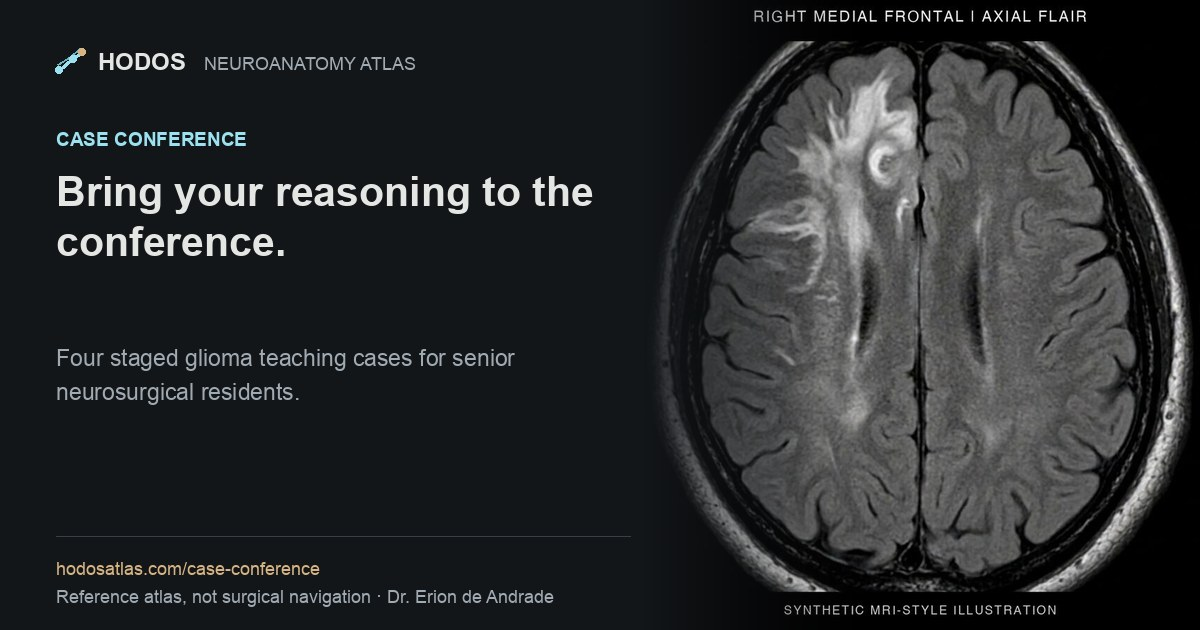
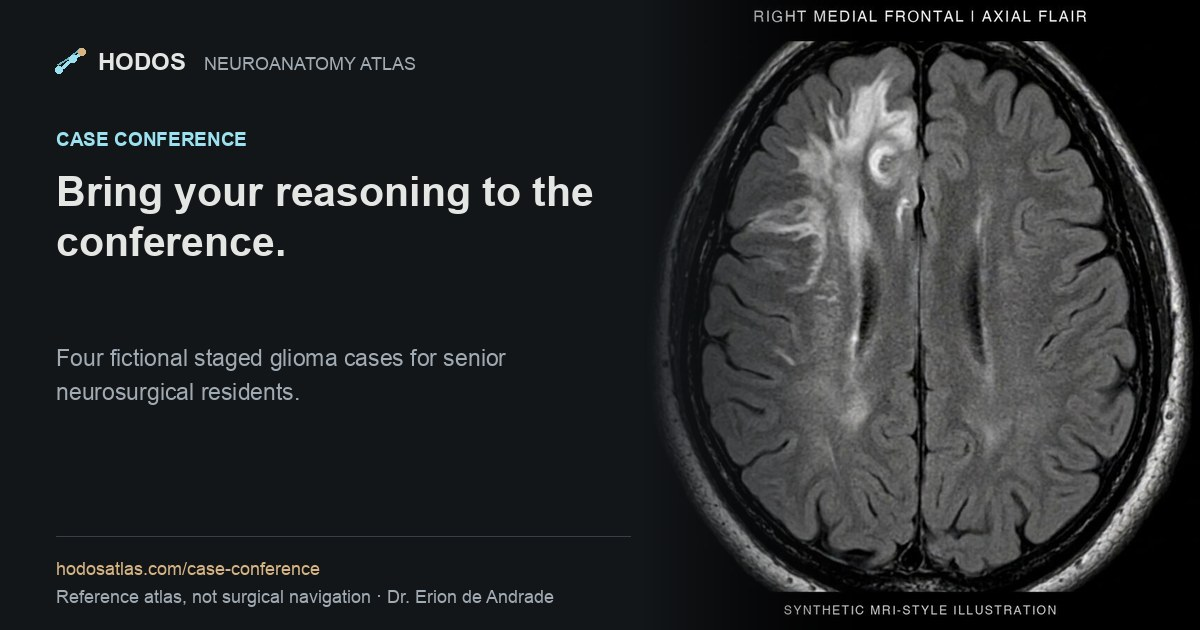
fix: address PR #41 review P2s and SwiftShader screenshot stability in CI

Changed region(s): [[0.0925, 0.5429, 0.4317, 0.6032]]

diff --git a/viewer/lesson_content.js b/viewer/lesson_content.js
@@ -38,6 +38,13 @@ export function lessonStatusNotice(lesson){
   throw new Error(`Unknown reviewStatus: ${lesson.reviewStatus}`);
 }
 
+export function curriculumStatusNotice(lessons,draftNoticeText='Lesson text is an educational draft awaiting anatomical review.'){
+  const draftCount=lessons.filter(l=>l.reviewStatus==='draft').length;
+  if(draftCount===lessons.length)return draftNoticeText;
+  if(draftCount===0)return 'All lessons have been reviewed. Group anatomy reference only, not for surgical navigation.';
+  return `${lessons.length-draftCount} of ${lessons.length} lessons reviewed; ${draftCount} remain educational drafts awaiting anatomical review.`;
+}
+
 export const SOURCES=Object.freeze({...REFERENCE_SOURCES,...RESIDENT_SOURCES,...CORPUS_CALLOSUM_SOURCES,...INTERNAL_CAPSULE_SOURCES,...VENTRAL_SOURCES,...BRAINSTEM_SOURCES,...NETWORK_SOURCES,...W3_limen.SOURCES,...W3_insularFloor.SOURCES,...W3_medialSystem.SOURCES,...W3_motorBeyondM1.SOURCES,...W3_controlNetwork.SOURCES,...W3_readingRoute.SOURCES});
 // Wave-3 modules carry their own region cards; ids must not collide with the base set.
 export const REGIONS=Object.freeze({...BASE_REGIONS,...W3_limen.REGIONS,...W3_insularFloor.REGIONS,...W3_medialSystem.REGIONS,...W3_motorBeyondM1.REGIONS,...W3_controlNetwork.REGIONS,...W3_readingRoute.REGIONS});
@@ -116,6 +123,13 @@ function validateScene(scene,lessonId){
   }
 }
 
+function isIsoDate(value){
+  if(typeof value!=='string'||!/^\d{4}-\d{2}-\d{2}$/.test(value))return false;
+  const [y,m,d]=value.split('-').map(Number);
+  const dt=new Date(Date.UTC(y,m-1,d));
+  return dt.getUTCFullYear()===y&&dt.getUTCMonth()===m-1&&dt.getUTCDate()===d;
+}
+
 export function validateLessons(lessons=LESSONS,{sources=SOURCES,regions=REGIONS}={}){
   const ids=new Set(),usedSources=new Set(),usedRegions=new Set(),papers=new Set();
   for(const [id,s] of Object.entries(sources)){
@@ -136,7 +150,9 @@ export function validateLessons(lessons=LESSONS,{sources=SOURCES,regions=REGIONS
   }
   for(const l of lessons){
     if(ids.has(l.id)||!l.version||!REVIEW_STATUSES.includes(l.reviewStatus)||!l.steps.length)throw new Error('Invalid lesson identity or review state');
-    if(l.reviewStatus!=='draft'&&!(typeof l.reviewedAt==='string'&&/^\d{4}-\d{2}-\d{2}$/.test(l.reviewedAt)))throw new Error(`Reviewed lesson ${l.id} requires ISO reviewedAt date`);
+    if(l.reviewStatus==='draft'&&(l.reviewedAt!=null||l.reviewedBy!=null))throw new Error(`Draft lesson ${l.id} must not carry review metadata`);
+    if(l.reviewStatus!=='draft'&&!isIsoDate(l.reviewedAt))throw new Error(`Reviewed lesson ${l.id} requires valid ISO reviewedAt date`);
+    if(l.reviewStatus==='author-reviewed'&&l.reviewedBy!=null)throw new Error(`Author-reviewed lesson ${l.id} must not set reviewedBy`);
     if(l.reviewStatus==='peer-reviewed'&&!(typeof l.reviewedBy==='string'&&l.reviewedBy.trim()))throw new Error(`Peer-reviewed lesson ${l.id} requires reviewedBy`);
     ids.add(l.id);
     for(const s of l.steps){

diff --git a/tests/js/lesson_state.test.js b/tests/js/lesson_state.test.js
@@ -92,7 +92,22 @@ test('reviewStatus graduation supports author-reviewed and peer-reviewed while r
 
   const missingDate=structuredClone(LESSONS);
   missingDate[0].reviewStatus='author-reviewed';
-  assert.throws(()=>validateLessons(missingDate),/requires ISO reviewedAt/);
+  assert.throws(()=>validateLessons(missingDate),/requires valid ISO reviewedAt/);
+
+  const badCalendarDate=structuredClone(LESSONS);
+  badCalendarDate[0].reviewStatus='author-reviewed';
+  badCalendarDate[0].reviewedAt='2026-02-30';
+  assert.throws(()=>validateLessons(badCalendarDate),/requires valid ISO reviewedAt/);
+
+  const draftWithDate=structuredClone(LESSONS);
+  draftWithDate[0].reviewedAt='2026-11-24';
+  assert.throws(()=>validateLessons(draftWithDate),/must not carry review metadata/);
+
+  const authorWithReviewer=structuredClone(LESSONS);
+  authorWithReviewer[0].reviewStatus='author-reviewed';
+  authorWithReviewer[0].reviewedAt='2026-11-24';
+  authorWithReviewer[0].reviewedBy='Someone Else';
+  assert.throws(()=>validateLessons(authorWithReviewer),/must not set reviewedBy/);
 
   const missingReviewer=structuredClone(LESSONS);
   missingReviewer[0].reviewStatus='peer-reviewed';

diff --git a/tests/js/hodos_export.test.js b/tests/js/hodos_export.test.js
@@ -147,7 +147,7 @@ test('Hodos publishes a complete atlas with working public navigation and attrib
   const allBundledJS=[atlasBundle,...await Promise.all(chunkFiles.map(f=>readFile(path.join(out,f.path),'utf8')))].join('\n');
   assert(allBundledJS.includes('#E0605A'),'the /atlas bundle closure carries the Direction colour table');
   assert.match(headers,/\/chunks\/\*\n  ! Cache-Control\n  Cache-Control: public, max-age=31536000, immutable/);
-  assert.match(headers,/\/case-images\/\*\n  ! Cache-Control\n  Cache-Control: public, max-age=2592000/);
+  assert.match(headers,/\/case-images\/\*\n  ! Cache-Control\n  Cache-Control: public, max-age=14400, must-revalidate/);
   assert.doesNotMatch(await readFile(path.join(out,'scene_materials.js'),'utf8'),/configTube|tube-evidence/,'the unused tube-evidence material code is gone');
   assert.equal(receipt.files.filter(f=>/^reference-plates\/.*\.webp$/.test(f.path)).length,5);
   assert(!receipt.files.some(f=>/^(data\.json|app\.js|cases\/|api\/|handoff\/|\.env)/.test(f.path)));

diff --git a/viewer/case-conference.html b/viewer/case-conference.html
@@ -12,7 +12,7 @@
 <meta property="og:image" content="https://hodosatlas.com/brand/og/case-conference.jpg">
 <meta property="og:image:width" content="1200">
 <meta property="og:image:height" content="630">
-<meta property="og:image:alt" content="Hodos Case Conference — four staged glioma teaching cases for neurosurgical residents.">
+<meta property="og:image:alt" content="Hodos Case Conference — four fictional staged glioma teaching cases for neurosurgical residents.">
 <meta name="twitter:card" content="summary_large_image">
 <meta name="twitter:title" content="Hodos · Case Conference">
 <meta name="twitter:description" content="Four fictional glioma teaching cases for senior neurosurgical residents.">

diff --git a/viewer/atlas_scene.js b/viewer/atlas_scene.js
@@ -71,7 +71,7 @@ export async function createAtlasScene(mount,{onPick=()=>{},onHover=()=>{},onSta
   const reduced=matchMedia('(prefers-reduced-motion: reduce)');
   const scene=new THREE.Scene();
   const renderer=new THREE.WebGLRenderer({antialias:true,alpha:true,powerPreference:'high-performance'});
-  // Narrow screens render at 2x at most; resize() applies the same cap to the pipeline.
+  // Cap pixel ratio at 2x; resize() applies the same cap to the pipeline.
   renderer.setPixelRatio(Math.min(devicePixelRatio,2));renderer.setClearColor(0x070c12,0);
   renderer.outputColorSpace=THREE.SRGBColorSpace;
   renderer.localClippingEnabled=true;

diff --git a/scripts/generate-og-cards.py b/scripts/generate-og-cards.py
@@ -1,7 +1,8 @@
 #!/usr/bin/env python3
 """Generate deterministic 1200x630 OpenGraph preview cards for Hodos lessons and tools.
 
-Uses only real atlas renders/plates already in viewer/media/ — never AI-generated anatomy.
+Uses existing atlas renders/plates from viewer/media/ (and the clearly watermarked
+synthetic MRI-style illustration for the fictional Case Conference card).
 Run from repo root: python3 scripts/generate-og-cards.py
 """
 import json
@@ -28,11 +29,15 @@ FONT_CANDIDATES_BOLD = [
     "/System/Library/Fonts/Supplemental/Arial Bold.ttf",
     "/System/Library/Fonts/HelveticaNeue.ttc",
     "/Library/Fonts/Arial Bold.ttf",
+    "/usr/share/fonts/truetype/dejavu/DejaVuSans-Bold.ttf",
+    "/usr/share/fonts/truetype/liberation/LiberationSans-Bold.ttf",
 ]
 FONT_CANDIDATES_REG = [
     "/System/Library/Fonts/Supplemental/Arial.ttf",
     "/System/Library/Fonts/HelveticaNeue.ttc",
     "/Library/Fonts/Arial.ttf",
+    "/usr/share/fonts/truetype/dejavu/DejaVuSans.ttf",
+    "/usr/share/fonts/truetype/liberation/LiberationSans-Regular.ttf",
 ]
 
 
@@ -43,7 +48,10 @@ def load_font(candidates, size):
                 return ImageFont.truetype(p, size)
             except Exception:
                 pass
-    return ImageFont.load_default()
+    try:
+        return ImageFont.load_default(size=size)
+    except TypeError:
+        return ImageFont.load_default()
 
 
 def cover_crop(img, tw, th):
@@ -191,7 +199,7 @@ def main():
             "case-conference",
             "Case Conference",
             "Bring your reasoning to the conference.",
-            "Four staged glioma teaching cases for senior neurosurgical residents.",
+            "Four fictional staged glioma cases for senior neurosurgical residents.",
             "hodosatlas.com/case-conference",
             VIEWER / "media" / "landing" / "case-right-medial-frontal-20260914.jpg",
         ),
